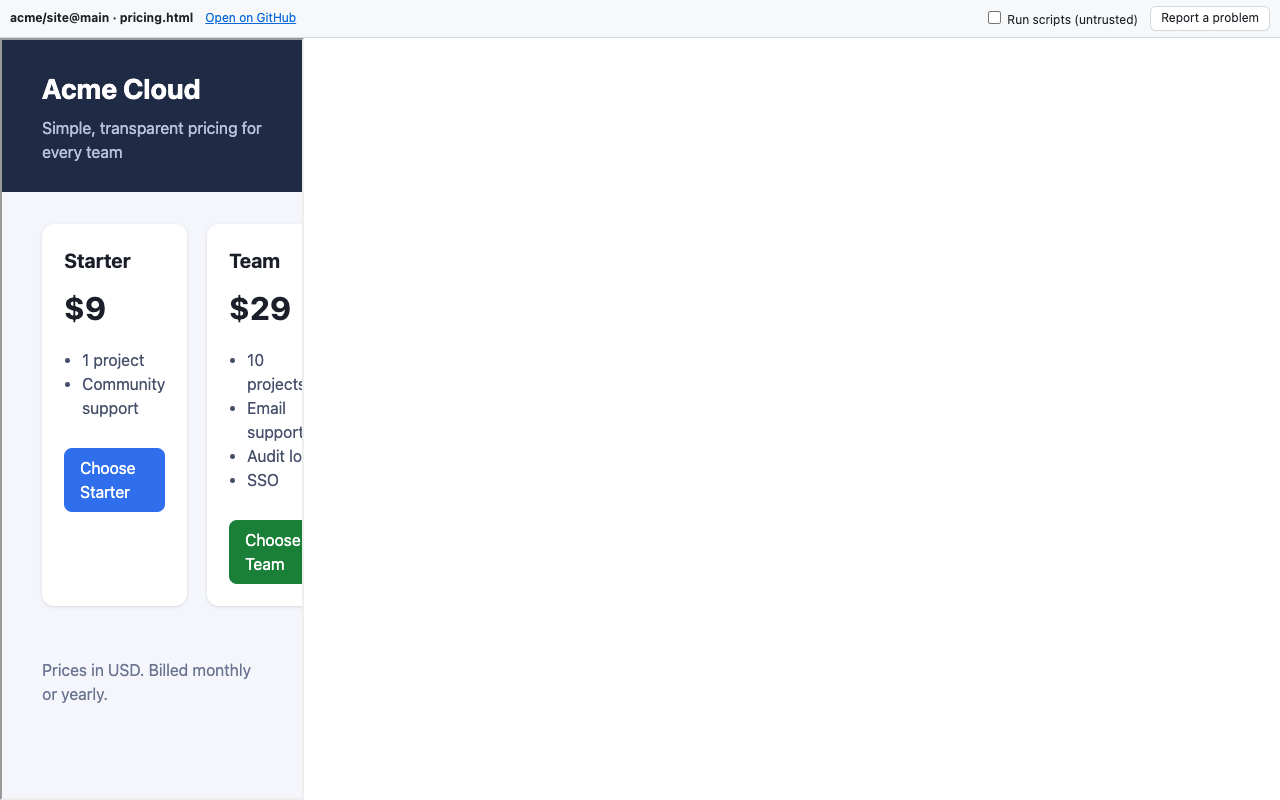
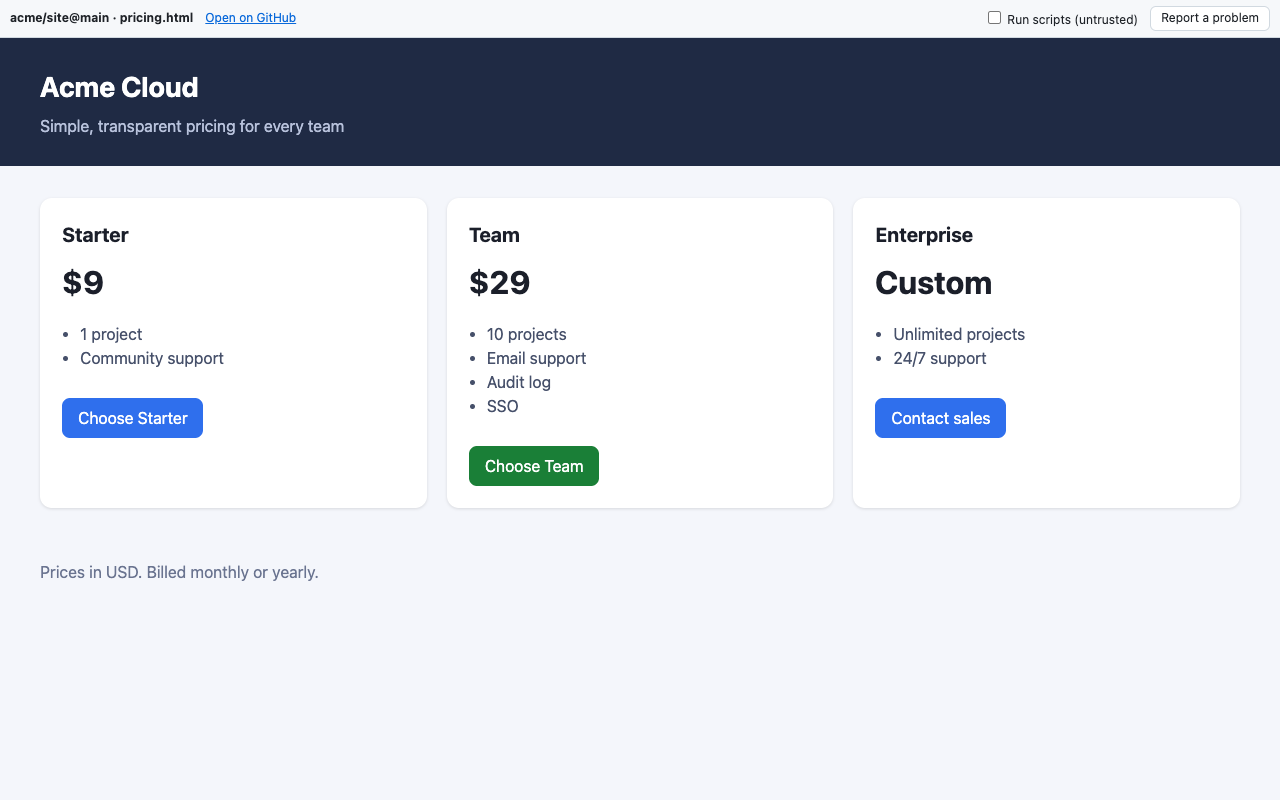
fix(viewer): make single-file preview fill the window
The frame sat directly in #stage with no sizing rule, so it kept the
default 300px width in a flex row (about a quarter of the window). Size
it like the diff panes and add an e2e test that checks it fills the
stage with and without scripts. Bump to 0.2.1 and refresh screenshot 3.

diff --git a/test/e2e/preview.spec.ts b/test/e2e/preview.spec.ts
@@ -32,6 +32,29 @@ test.describe("single file preview", () => {
         expect(gh.requests).toContain("/o/r/raw/main/dir/img/logo.png");
     });
 
+    test("the preview fills the window (not a default-sized box), with and without scripts", async ({ context }) => {
+        await fakeGithub(context, { files });
+        const page = await context.newPage();
+        await page.goto("https://github.com/o/r/blob/main/dir/page.html");
+        const [viewer] = await Promise.all([context.waitForEvent("page"), page.locator("[data-hp-blob-button]").click()]);
+        await expect(viewer.frameLocator("iframe").locator("h1")).toHaveText("Hello");
+
+        const fill = async () => viewer.evaluate(() => {
+            const frame = document.querySelector("#stage > iframe")!.getBoundingClientRect();
+            const stage = document.getElementById("stage")!.getBoundingClientRect();
+            return { widthRatio: frame.width / stage.width, heightRatio: frame.height / stage.height };
+        });
+        const plain = await fill();
+        expect(plain.widthRatio).toBeGreaterThan(0.98);
+        expect(plain.heightRatio).toBeGreaterThan(0.98);
+
+        await viewer.locator("#run-scripts").check();
+        await expect(viewer.frameLocator("iframe").locator("h1")).toHaveText("script ran");
+        const scripted = await fill();
+        expect(scripted.widthRatio).toBeGreaterThan(0.98);
+        expect(scripted.heightRatio).toBeGreaterThan(0.98);
+    });
+
     test("scripts only run after the explicit opt-in, inside the sandbox page", async ({ context }) => {
         await fakeGithub(context, { files });
         const page = await context.newPage();

diff --git a/static/viewer/viewer.css b/static/viewer/viewer.css
@@ -24,7 +24,8 @@ body { display: flex; flex-direction: column; background: var(--bg); color: var(
 .pane { flex: 1; min-width: 0; display: flex; flex-direction: column; }
 .pane + .pane { border-left: 1px solid var(--border); }
 .pane-title { padding: 4px 10px; background: var(--bar); border-bottom: 1px solid var(--border); color: var(--muted); }
-.pane iframe { flex: 1; width: 100%; border: 0; background: #fff; }
+/* single-file preview puts the frame straight into the stage; without a size it would stay at the default 300px */
+#stage > iframe, .pane iframe { flex: 1; min-width: 0; width: 100%; border: 0; background: #fff; }
 .placeholder { flex: 1; display: flex; align-items: center; justify-content: center; color: var(--muted); }
 [hidden] { display: none !important; }
 .controls { display: flex; align-items: center; gap: 12px; flex: 1; flex-wrap: wrap; }

diff --git a/CHROMEWEBSTORE.md b/CHROMEWEBSTORE.md
@@ -141,6 +141,7 @@ https://github.com/kaovilai/github-html-diff-preview
 
 | Version | Date | Changes | Status |
 |---------|------|---------|--------|
+| 0.2.1 | 2026-10-16 | Fixes the single-file preview rendering in a narrow box instead of filling the window. | Draft, not submitted |
 | 0.2.0 | 2026-10-16 | Removes the GitHub API fallback and the token option (read-only raw fetching through the browser's sign-in only), drops the `storage` and `api.github.com` permissions, and adds "Report a problem" (prefilled GitHub issue form the user submits). | Submitted 2026-10-16, pending review (item ID `ppkcpjippikphpgkmkdnjielaalmcmol`); set to publish automatically after review |
 | 0.1.0 | 2026-10-16 | Initial release: Preview button, context menu and shortcut for HTML files; rendered before/after diff in pull requests; private repositories through the browser's GitHub sign-in; opt-in script mode (Chrome). | Submitted 2026-10-16; review cancelled the same day and replaced by 0.2.0 (smaller permission set) |
 

diff --git a/CHANGELOG.md b/CHANGELOG.md
@@ -1,5 +1,9 @@
 # Changelog
 
+## 0.2.1
+
+- Fixed the single-file preview showing the page in a narrow box (about a quarter of the window) instead of filling it. A test now checks the frame fills the window, with and without scripts.
+
 ## 0.2.0
 
 - Removed the GitHub REST API fallback and the personal access token option. The extension now only reads, through the browser's own GitHub sign-in (`/raw/...`, plus the page's own data and `.diff`), so nothing is stored and `api.github.com` is never contacted.
